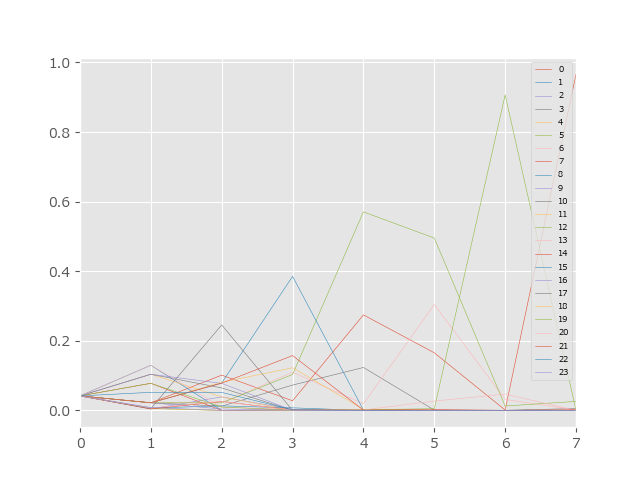
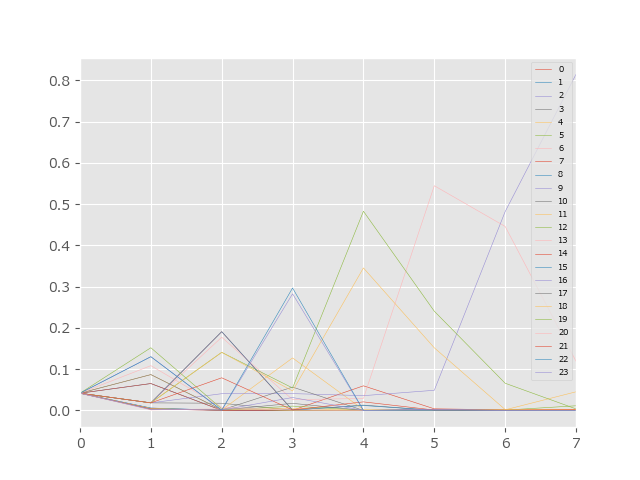
modify genAltObservation

diff --git a/Graph.py b/Graph.py
@@ -114,3 +114,13 @@ class Graph:
             label = true_path[2, i] - 1
             state_path[i] = 3*true_path[0, i] + label
         return state_path
+
+    def genAltObservations(self, true_path, p):
+        T = true_path.shape[1]
+        observed = np.zeros(T)
+        for i in range(0, T):
+            truth = true_path[2, i]
+            # truth is in {1, 2, 3}
+            observed[i] = np.random.choice([truth, (truth+1)%3 +1, (truth+2)%3 +1], 1, False, [1 - p, p/2, p/2])
+        return observed
+

diff --git a/sample.py b/sample.py
@@ -20,9 +20,11 @@ print(B)
 print(A)
 
 true_states = graph.truePathToStates(A)
+observed = graph.genAltObservations(A, p)
 print(true_states)
+print(observed)
 
-hmm = HMM(B[1,], G3, p)
+hmm = HMM(observed, G3, p)
 C = hmm.genC(sigmas)
 # print(C)
 
